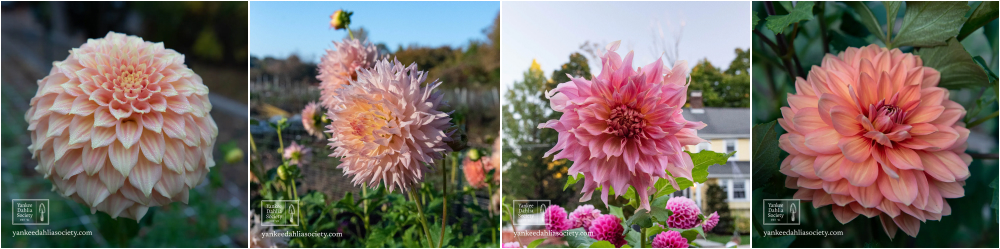
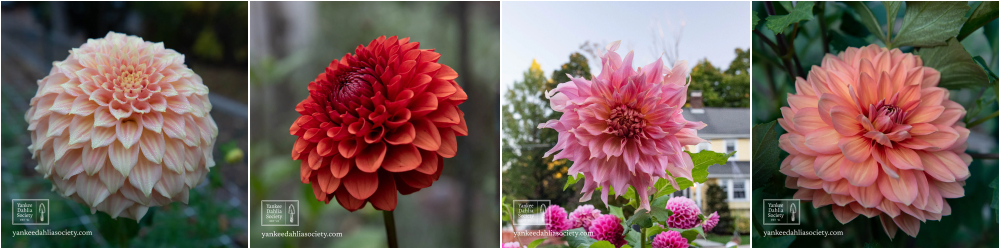
update email

Changed region(s): [[0.248, 0.0, 0.527, 1.0]]

diff --git a/202401/20240114_all-access/index.html b/202401/20240114_all-access/index.html
@@ -334,8 +334,8 @@
                               <p>
                                 <small>
                                   <em>
-                                    Displayed from left: Bracken Sarah, Hapet
-                                    Champagne, Penhill Watermelon, Nicholas
+                                    Displayed from left: Bracken Sarah, Brown
+                                    Sugar, Penhill Watermelon, Nicholas
                                   </em>
                                 </small>
                               </p>
